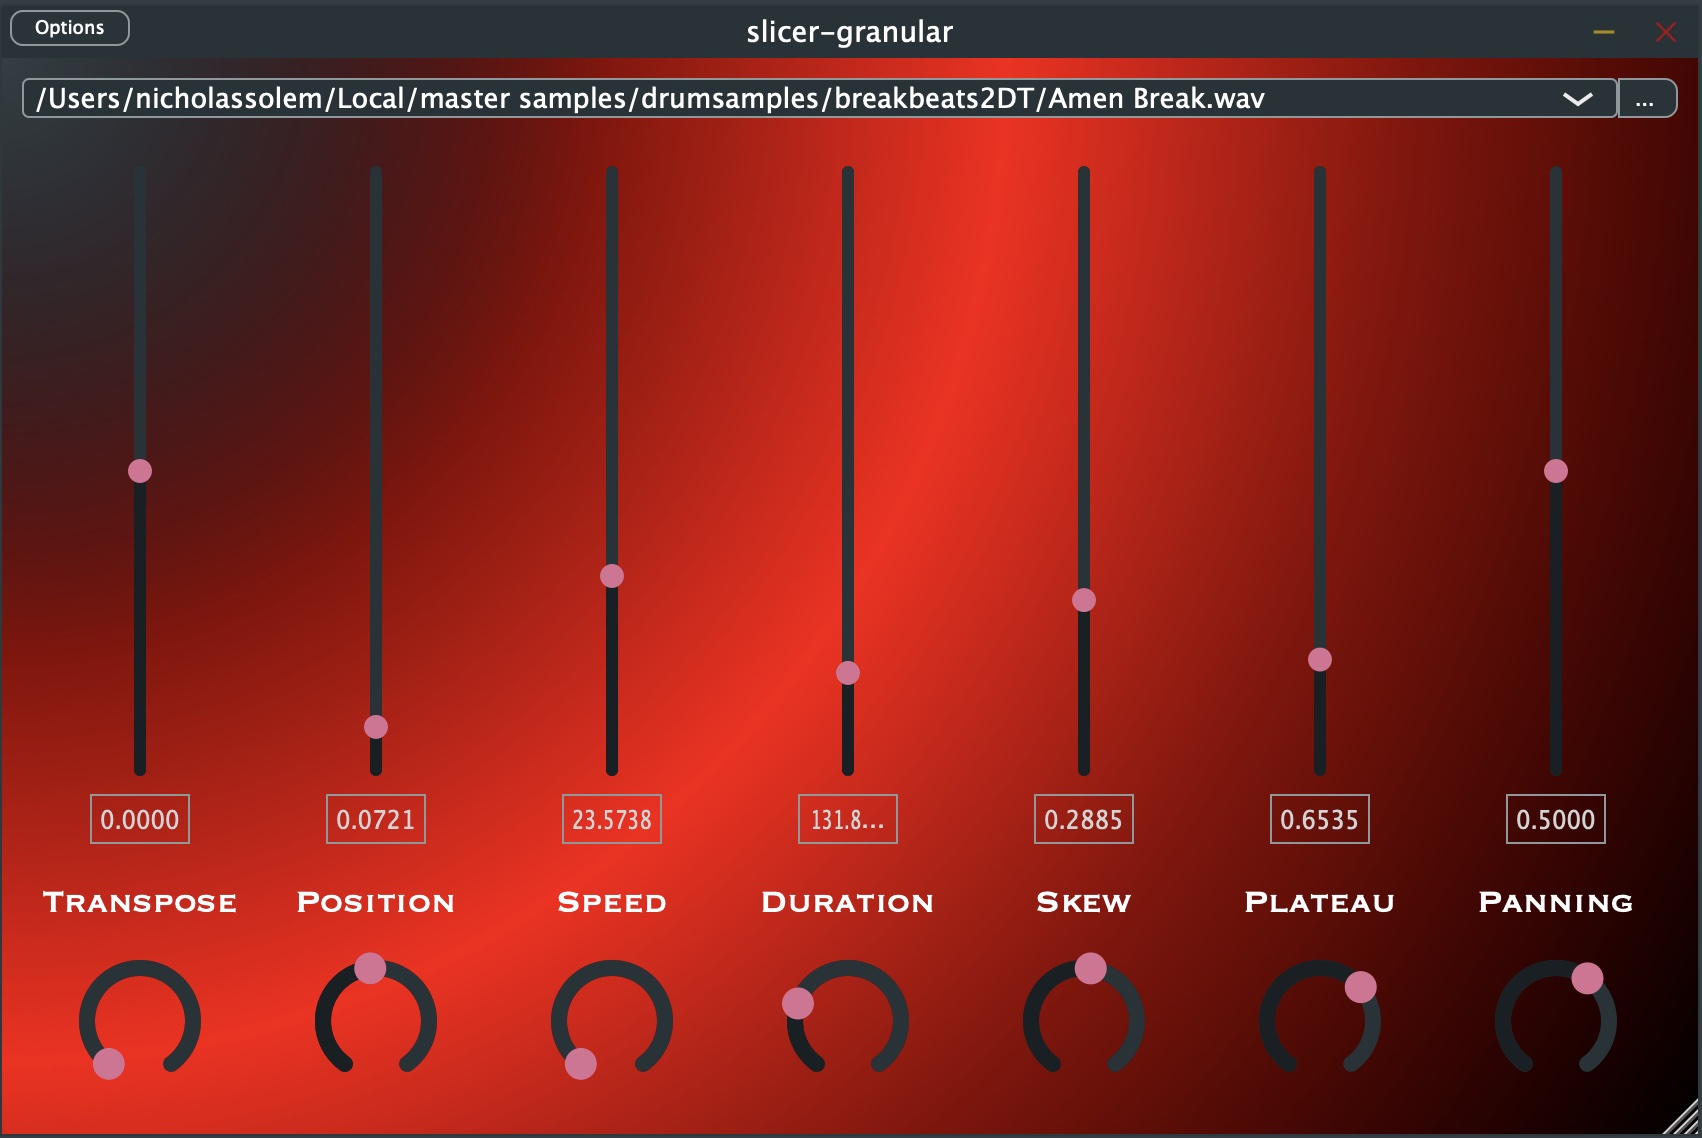
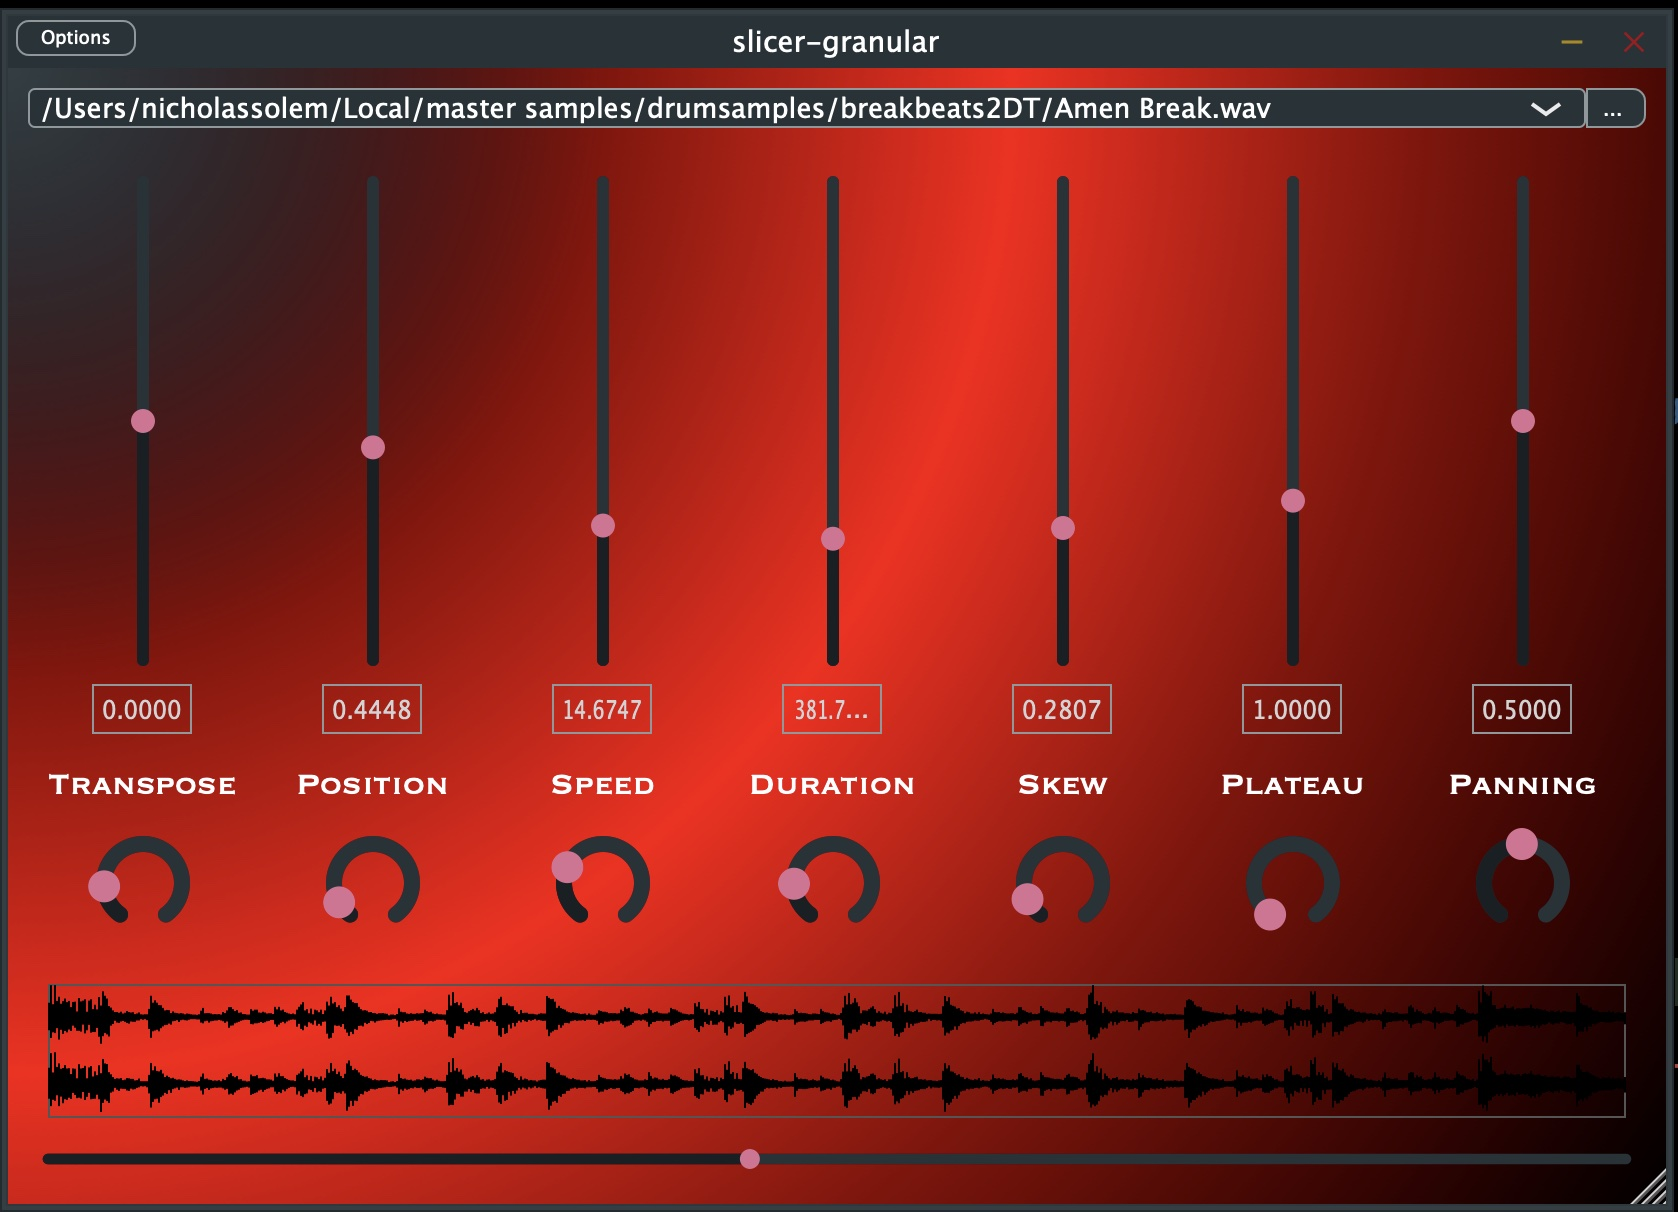
update picture

Changed region(s): [[0.0, 0.0, 1.0, 1.0], [0.3409, 0.4921, 0.3719, 0.5228], [0.3409, 0.4306, 0.3719, 0.4613]]

diff --git a/Source/AttachedSlider.h b/Source/AttachedSlider.h
@@ -1,0 +1,35 @@
+/*
+  ==============================================================================
+
+    AttachedSlider.h
+    Created: 26 Oct 2023 1:49:14am
+    Author:  Nicholas Solem
+
+  ==============================================================================
+*/
+
+#pragma once
+#include <JuceHeader.h>
+
+struct AttachedSlider {
+	using Slider = juce::Slider;
+	using SliderAttachment = juce::AudioProcessorValueTreeState::SliderAttachment;
+	
+	AttachedSlider(juce::AudioProcessorValueTreeState &apvts, params_e param, Slider::SliderStyle sliderStyle,
+				   juce::Slider::TextEntryBoxPosition entryPos = juce::Slider::TextBoxBelow)
+	:
+	_slider(),
+	_attachment(apvts, getParamName(param), _slider)
+	{
+		_slider.setSliderStyle(sliderStyle);
+		_slider.setNormalisableRange(getNormalizableRange<double>(param));
+		_slider.setTextBoxStyle(entryPos, false, 50, 25);
+		_slider.setValue(getParamDefault(param));
+
+		_slider.setColour(Slider::ColourIds::thumbColourId, juce::Colours::palevioletred);
+		_slider.setColour(Slider::ColourIds::textBoxTextColourId, juce::Colours::lightgrey);
+	}
+	
+	Slider _slider;
+	SliderAttachment _attachment;
+};
